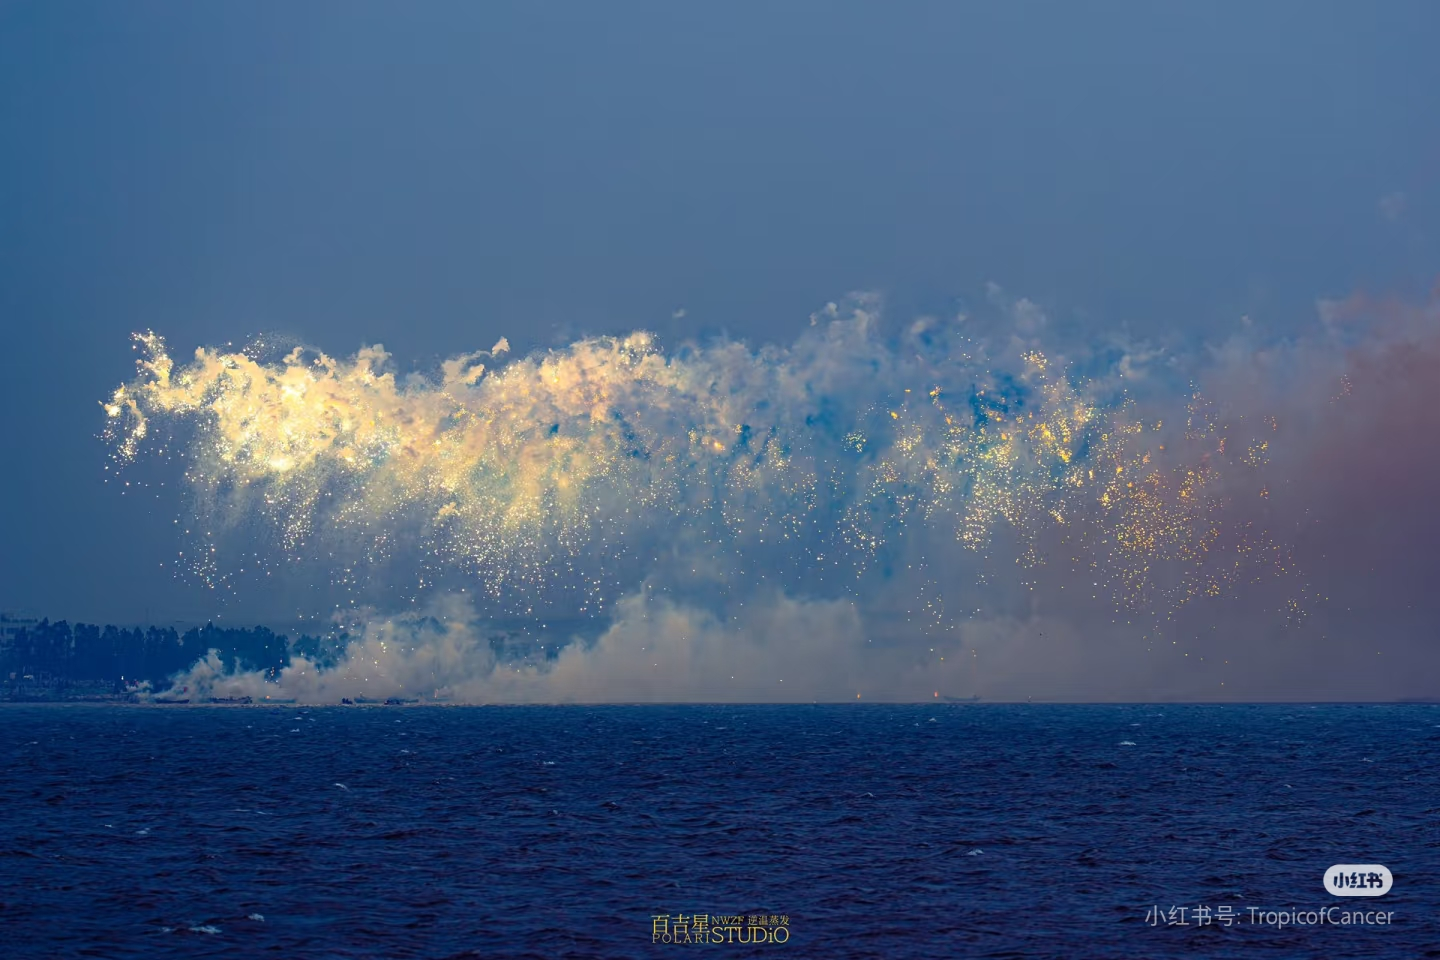
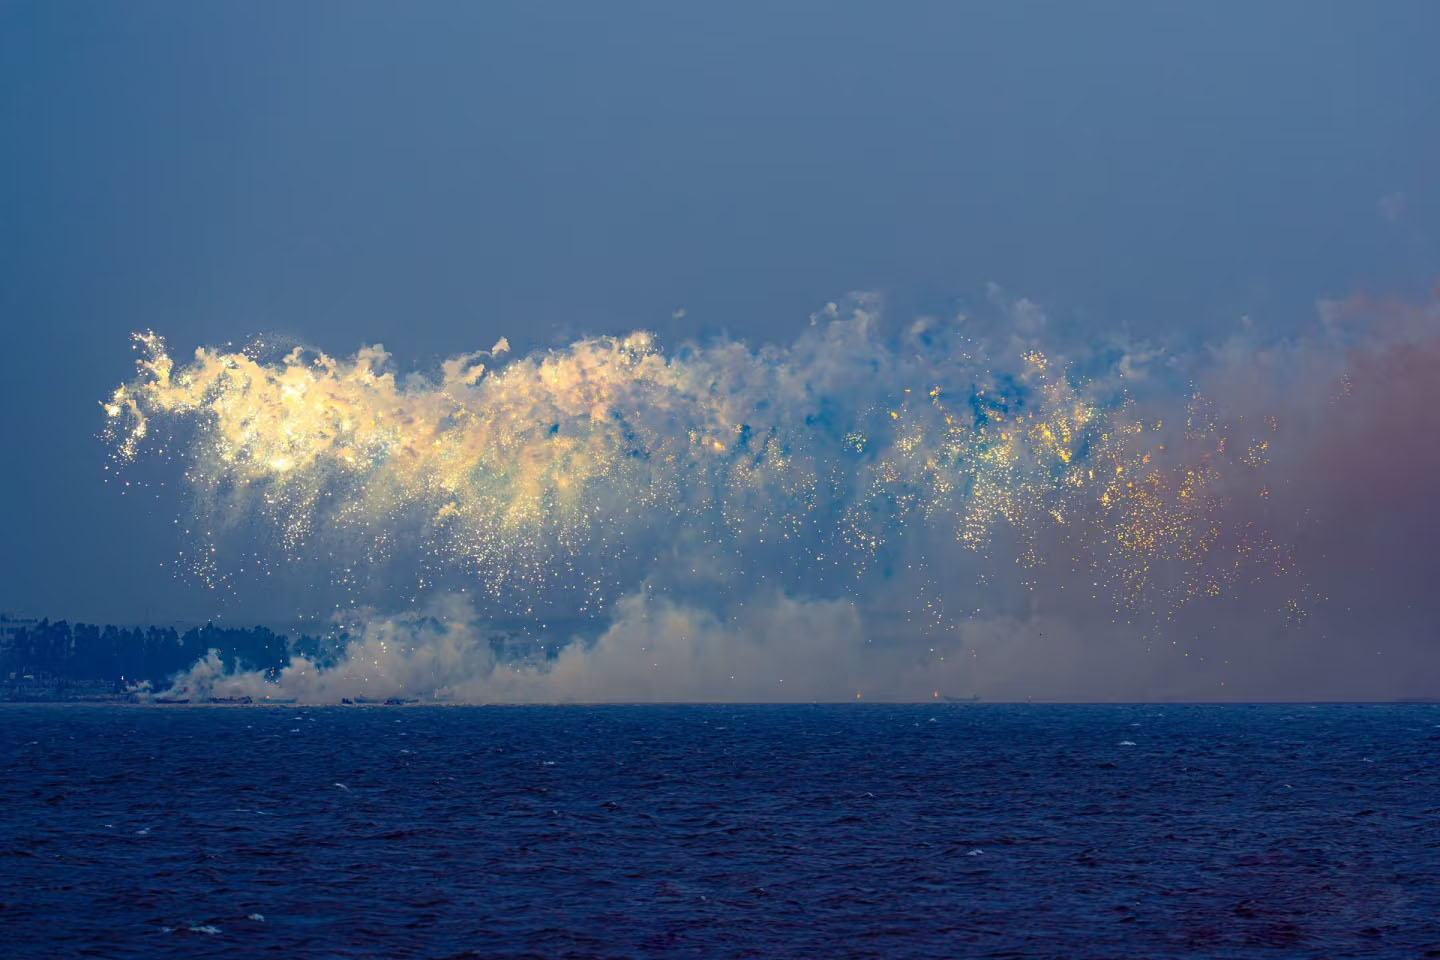
更新图片

Changed region(s): [[0.7812, 0.875, 1.0, 1.0], [0.4375, 0.9062, 0.5625, 1.0]]

diff --git a/src/components/comment/CommentForm.vue b/src/components/comment/CommentForm.vue
@@ -1,9 +1,6 @@
 <script setup lang="ts">
-import { ref, watch, computed, watchEffect, onMounted, onUnmounted } from "vue";
-import { useRequest } from "@/composables/useRequest";
+import { ref, watch, computed, onMounted, onUnmounted } from "vue";
 import { Icon } from "@iconify/vue";
-import { marked } from "marked";
-import dompurify from "dompurify";
 import EmojiPicker from "vue3-emoji-picker";
 import "vue3-emoji-picker/css";
 import { useAlert } from "@/composables/useAlert";
@@ -12,57 +9,54 @@ import {
   PopoverContent,
   PopoverTrigger,
 } from "@/components/ui/popover";
+import apiClient from "@/api/axios";
+import { useRequest } from "vue-request";
 
 const props = defineProps<{
   postId: string | number;
   getFirstComment: () => void;
-  isComment: {
-    type: boolean;
-    default: false;
-  };
+  isComment?: boolean;
   userId: number;
   parentId: number;
   isFormVisible: boolean;
 }>();
 
-const { data, executeRequest } = useRequest();
 const { showAlert } = useAlert();
 const commentTexts = ref<string>("");
-// 用于保存拼接后的文本+图片编码
 const finalCommentText = ref<string>("");
 const maxLength = 1000;
 const remaining = computed(() => maxLength - commentTexts.value.length);
-const renderedContent = ref<string>("");
 const fileInput = ref<HTMLInputElement | null>(null);
 const imageTags = ref<string[]>([]);
 const photoUrls = ref<string[]>([]);
 const emojiVisible = ref<boolean>(false);
 const emit = defineEmits(["reply"]);
-const onSelectEmoji = (emoji: string) => {
+
+const onSelectEmoji = (emoji: { i: string }) => {
   commentTexts.value += emoji.i;
   emojiVisible.value = false;
 };
 
-// 更新内容并限制最大长度
+// 限制评论长度
 watch(commentTexts, (newContent) => {
   if (newContent.length > maxLength) {
     commentTexts.value = newContent.slice(0, maxLength);
   }
 });
-// 渲染的Markdown内容
-watchEffect(async () => {
-  const rawHTML = await marked(commentTexts.value);
-  renderedContent.value = dompurify.sanitize(rawHTML);
-});
-// 图片输入
+
+// 图片上传逻辑
 const uploadImg = () => {
   fileInput.value?.click();
 };
-// 处理文件选择
+
 const handleFileSelect = (event: Event) => {
   const files = (event.target as HTMLInputElement).files;
   if (files && files.length > 0) {
     const file = files[0];
+    if (file.size > 1024 * 1024) {
+      showAlert("图片大小不能超过 1MB", "error");
+      return;
+    }
     if (photoUrls.value.length >= 1) {
       showAlert("只能上传一张图片", "waring");
       return;
@@ -84,14 +78,12 @@ const handleFileSelect = (event: Event) => {
   }
 };
 
-// 删除图片
 const deleteImage = () => {
   photoUrls.value = [];
   imageTags.value = [];
   finalCommentText.value = "";
 };
 
-// 生命周期函数
 onMounted(() => {
   fileInput.value?.addEventListener("change", handleFileSelect);
 });
@@ -101,8 +93,50 @@ onUnmounted(() => {
     fileInput.value.removeEventListener("change", handleFileSelect);
   }
 });
-// 写一级评论
-const submitComment = async () => {
+
+// 封装评论请求逻辑（对齐示例中的 useRequest 用法）
+const createCommentRequest = (requestData: {
+  url: string;
+  method: string;
+  data: any;
+}) => {
+  return apiClient({
+    url: requestData.url,
+    method: requestData.method,
+    data: requestData.data,
+  });
+};
+
+const { data, run: executeRequest } = useRequest(createCommentRequest, {
+  manual: true,
+});
+
+watch(
+  () => data.value,
+  (response) => {
+    if (!response) return;
+
+    if (response.code === 200) {
+      showAlert("评论成功", "pass");
+      // 区分一级评论和多级评论的后续操作
+      if (props.isComment) {
+        props.getFirstComment();
+      } else {
+        emit("reply", props.parentId);
+      }
+      // 清空表单
+      commentTexts.value = "";
+      photoUrls.value = [];
+      imageTags.value = [];
+      finalCommentText.value = "";
+    } else {
+      showAlert("评论失败", "error");
+    }
+  },
+);
+
+// 提交一级评论
+const submitComment = () => {
   finalCommentText.value += commentTexts.value;
   if (!finalCommentText.value.trim()) {
     showAlert("评论内容不能为空", "error");
@@ -110,63 +144,41 @@ const submitComment = async () => {
   }
 
   const requestData = {
-    postId: props.postId,
-    commentTxt: finalCommentText.value,
-  };
-  // 发送请求
-  await executeRequest({
     url: `/comment/writePostComment`,
     method: "post",
-    requestData,
-  });
-  if (data.value?.code == 200) {
-    showAlert("评论成功", "pass");
-    props.getFirstComment();
-    commentTexts.value = "";
-    photoUrls.value = [];
-    imageTags.value = [];
-    finalCommentText.value = "";
-  } else {
-    showAlert("评论失败", "error");
-  }
+    data: {
+      postId: props.postId,
+      commentTxt: finalCommentText.value,
+    },
+  };
+  executeRequest(requestData);
 };
-//多级评论
-const submitReply = async (commentId: number, userId: number) => {
+
+// 提交多级评论
+const submitReply = () => {
   finalCommentText.value += commentTexts.value;
   if (!finalCommentText.value.trim()) {
     showAlert("评论内容不能为空", "error");
     return;
   }
-  const replyCommentDTO = {
-    commentId: commentId,
-    commentTxt: finalCommentText.value,
-    userId: userId,
-  };
-  //console.log("提交的请求数据:", replyCommentDTO);
-  await executeRequest({
+
+  const requestData = {
     url: `/comment/replyComment`,
     method: "post",
-    requestData: replyCommentDTO,
-  });
-  //console.log(data.value);
-
-  if (data.value?.code == 200) {
-    showAlert("评论成功", "pass");
-    commentTexts.value = "";
-    finalCommentText.value = "";
-    photoUrls.value = [];
-    imageTags.value = [];
-    emit("reply", commentId);
-  } else {
-    showAlert("评论失败", "error");
-  }
+    data: {
+      commentId: props.parentId,
+      commentTxt: finalCommentText.value,
+      userId: props.userId,
+    },
+  };
+  executeRequest(requestData);
 };
 
 const handleButtonClick = () => {
   if (props.isComment) {
     submitComment();
   } else {
-    submitReply(props.parentId, props.userId);
+    submitReply();
   }
 };
 </script>

diff --git a/src/features/homePage/components/itemShow/ItemShow.vue b/src/features/homePage/components/itemShow/ItemShow.vue
@@ -9,8 +9,8 @@
       <div class="titles">项目展示</div>
       <div class="items">
         <div class="shell">
-          <img src="../../../../assets/img/homePage/items/prj01.jpg" alt="" />
-          <span>项目1</span>
+          <img src="../../../../assets/img/homePage/items/prj01.png" alt="" />
+          <span>温心网</span>
         </div>
         <div class="shell">
           <img src="../../../../assets/img/homePage/items/prj02.png" alt="" />
@@ -29,8 +29,8 @@
           <span>小说网</span>
         </div>
         <div class="shell">
-          <img src="../../../../assets/img/homePage/items/prj06.png" alt="" />
-          <span>项目6</span>
+          <img src="../../../../assets/img/homePage/items/prj07.png" alt="" />
+          <span>双选系统</span>
         </div>
       </div>
     </div>

diff --git a/src/components/comment/CommentList.vue b/src/components/comment/CommentList.vue
@@ -5,7 +5,7 @@ import CommentForm from "./CommentForm.vue";
 import apiClient from "@/api/axios";
 import { useRequest } from "vue-request";
 
-const pageSize = ref<number>(10);
+const pageSize = ref<number>(15);
 const pageNumber = ref<number>(1);
 const comments = reactive<any[]>([]);
 const props = defineProps<{
@@ -17,7 +17,7 @@ const getFirstComment = () => {
     `/comment/getCommentOne?postId=${props.postId}&pageSize=${pageSize.value}&pageNumber=${pageNumber.value}`,
   );
 };
-const { data: commentData, loading, run } = useRequest(getFirstComment);
+const { data: commentData, run } = useRequest(getFirstComment);
 watch(
   () => commentData.value,
   (newValue) => {
